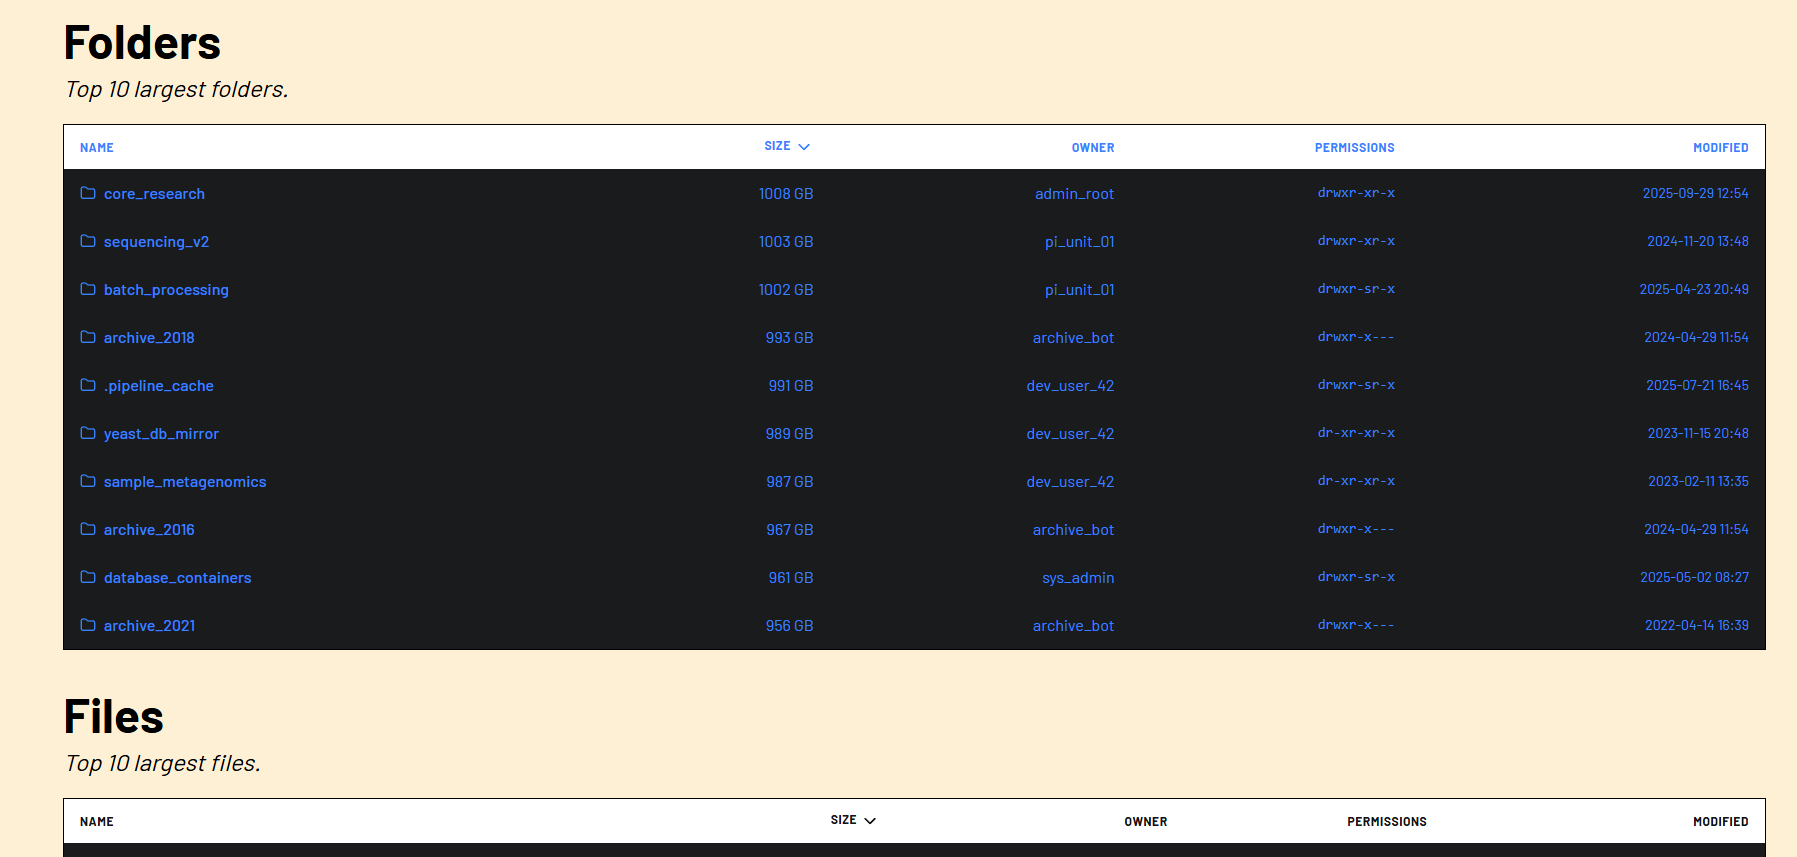
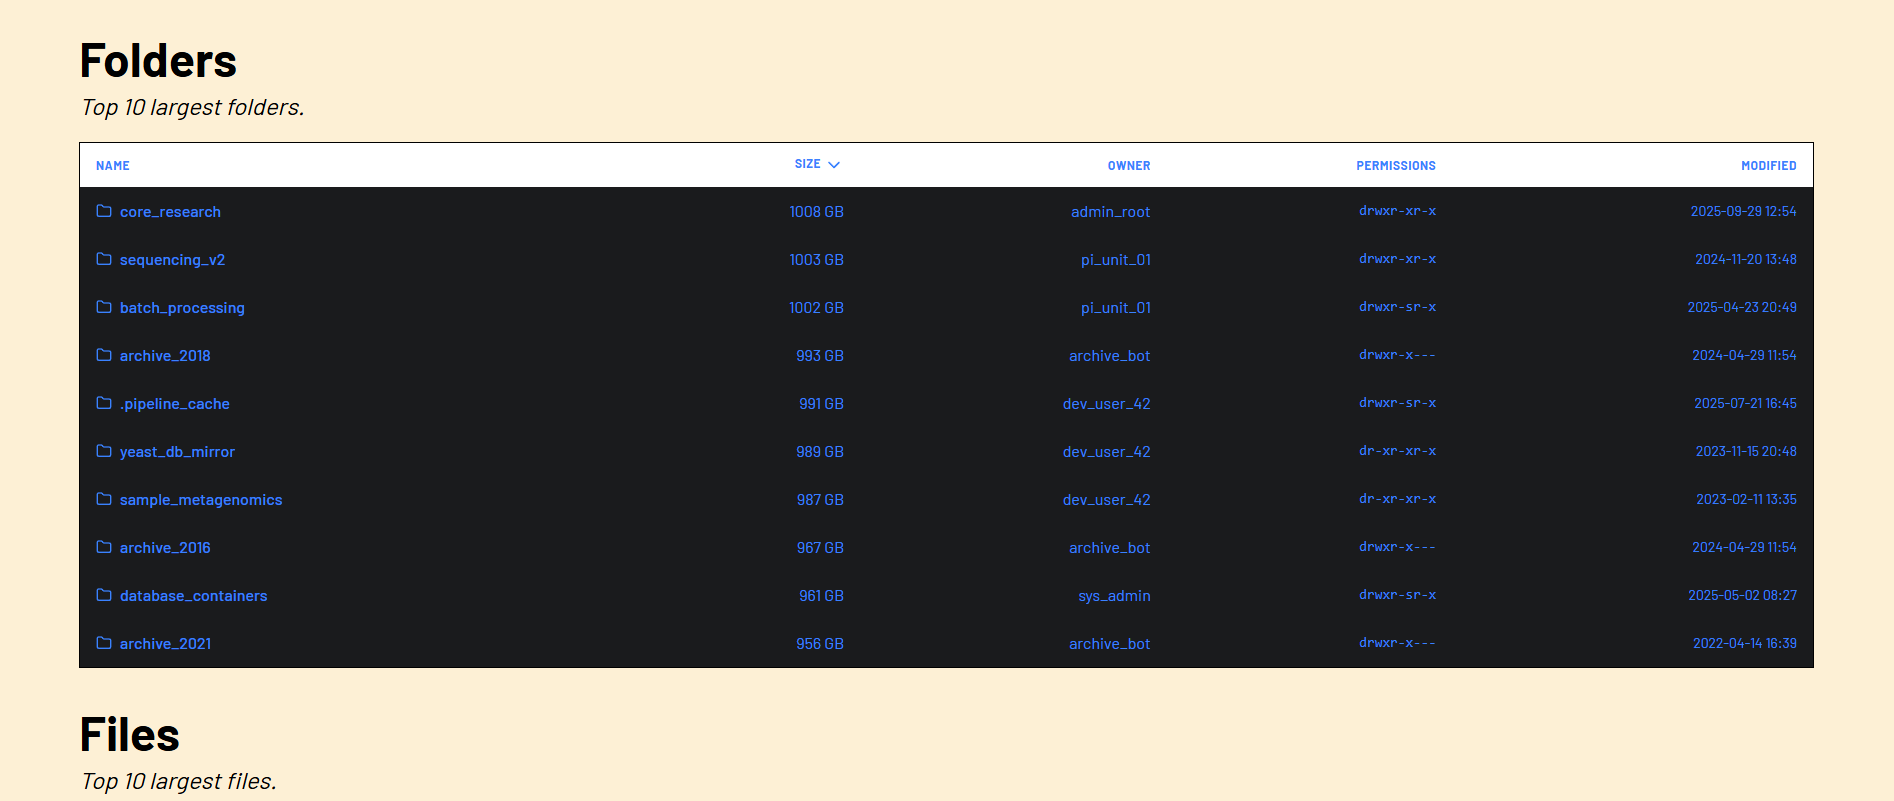
page-diskamp finish

diff --git a/index.html b/index.html
@@ -7,14 +7,14 @@
     <script src="https://cdn.jsdelivr.net/npm/@tailwindcss/browser@4"></script>
     <link rel="preconnect" href="https://fonts.googleapis.com">
     <link rel="preconnect" href="https://fonts.gstatic.com" crossorigin>
-    <link href="https://fonts.googleapis.com/css2?family=IBM+Plex+Sans:ital,wght@0,100..700;1,100..700&display=swap"
-        rel="stylesheet">
+    <link href="https://fonts.googleapis.com/css2?family=IBM+Plex+Sans:ital,wght@0,100..700;1,100..700&display=swap"rel="stylesheet">
     <title>Emer</title>
 </head>
 
 <body class="bg-zinc-100 font-['IBM_Plex_Sans']">
     <header class="w-full">
-        <nav class="mx-auto flex flex-wrap justify-center gap-6 px-4 py-4 text-sm sm:gap-10 sm:text-base lg:justify-end lg:gap-20 lg:px-30 lg:py-5 lg:text-xl">
+        <nav
+            class="mx-auto flex flex-wrap justify-center gap-6 px-4 py-4 text-sm sm:gap-10 sm:text-base lg:justify-end lg:gap-20 lg:px-30 lg:py-5 lg:text-xl">
             <ul class="flex flex-wrap justify-center gap-6 sm:gap-10 lg:gap-20 tracking-wide">
                 <li>
                     <a href="#experience" class="transition-colors hover:text-zinc-500 uppercase">
@@ -43,9 +43,11 @@
                 <h1 class="text-2xl sm:text-4xl lg:text-7xl text-[#d54d4f]">WEB DEV. / IT TECH.</h1>
                 <h1 class="text-2xl sm:text-4xl lg:text-7xl text-[#d54d4f]">BCN-ESP № 22-MMIII</h1>
             </div>
-            <div class="col-span-1 relative z-0 mt-8 bg-black px-5 pt-8 pb-8 text-white sm:px-8 lg:col-start-1 lg:col-end-7 lg:-mt-40 lg:px-10 lg:pt-52 lg:pb-20">
+            <div
+                class="col-span-1 relative z-0 mt-8 bg-black px-5 pt-8 pb-8 text-white sm:px-8 lg:col-start-1 lg:col-end-7 lg:-mt-40 lg:px-10 lg:pt-52 lg:pb-20">
                 <div class="mx-auto max-w-5xl">
-                    <p class="max-w-5xl text-base leading-relaxed tracking-normal uppercase sm:text-lg lg:text-2xl lg:tracking-wide">
+                    <p
+                        class="max-w-5xl text-base leading-relaxed tracking-normal uppercase sm:text-lg lg:text-2xl lg:tracking-wide">
                         I'm a curious person who enjoys learning, improving, and taking on new challenges.
                         I have experience working as a <span class="text-[#d54d4f]">Full Stack Developer</span> and
                         <span class="text-[#d54d4f]">IT Technician</span>.
@@ -67,8 +69,7 @@
             <div class="grid grid-cols-1 gap-12 lg:grid-cols-4 lg:gap-20">
                 <!-- bsc -->
                 <div class="lg:col-start-1 lg:col-end-2">
-                    <img src="./job-cards/bsc.png" alt="Barcelona Supercomputing Center"
-                        class="w-full h-56 object-cover object-bottom sm:h-64 lg:h-130">
+                    <img src="./job-cards/bsc.png" alt="Barcelona Supercomputing Center"class="w-full h-56 object-cover object-bottom sm:h-64 lg:h-130">
                     <div class="mt-4 lg:mt-0 lg:rotate-270 lg:-translate-y-70 lg:-translate-x-35">
                         <h1 class="">BARCELONA SUPERCOMPUTING</h1>
                         <h1 class=" italic">CENTER</h1>
@@ -96,7 +97,8 @@
                         in MareNostrum, displaying storage analysis, directory structures,
                         and usage dashboards on the frontend.
                     </p>
-                    <p class="text-sm text-[#d54d4f] mt-6 tracking-wide bg-black px-3 py-1.5 w-fit rounded-lg sm:text-base lg:text-lg lg:mt-8 lg:px-4 lg:py-2">
+                    <p
+                        class="text-sm text-[#d54d4f] mt-6 tracking-wide bg-black px-3 py-1.5 w-fit rounded-lg sm:text-base lg:text-lg lg:mt-8 lg:px-4 lg:py-2">
                         SVELTE · REACT · JS · TYPESCRIPT · FASTAPI · NEXT.JS · DOCKER · PYTHON · D3.JS
                     </p>
                 </div>
@@ -111,27 +113,23 @@
                     <h2 class="text-lg text-[#d54d4f] mt-1 uppercase sm:text-xl lg:text-2xl">
                         Administrative Campus of the GENERALITAT DE CATALUNYA
                     </h2>
-
                     <p class="text-base leading-relaxed mt-4 sm:text-lg lg:text-xl lg:mt-6">
                         Providing on-site IT support within the administrative district,
                         resolving hardware, software, network, and user-related incidents
                         through a ticket-based support system.
                     </p>
-
                     <p class="text-base leading-relaxed mt-4 sm:text-lg lg:text-xl lg:mt-5">
                         Managing user account lifecycle processes, including new user
                         registrations and account deactivations, as well as assisting
                         employees with day-to-day technical issues.
                     </p>
-
-                    <p class="text-sm text-[#d54d4f] mt-6 tracking-wide bg-black px-3 py-1.5 w-fit rounded-lg sm:text-base lg:text-lg lg:mt-8 lg:px-4 lg:py-2">
+                    <p
+                        class="text-sm text-[#d54d4f] mt-6 tracking-wide bg-black px-3 py-1.5 w-fit rounded-lg sm:text-base lg:text-lg lg:mt-8 lg:px-4 lg:py-2">
                         IT SUPPORT · TICKETING · WINDOWS · HARDWARE · NETWORKING · USER MANAGEMENT
                     </p>
-
                 </div>
                 <div class="lg:col-start-3 lg:col-end-4">
-                    <img src="./job-cards/bsc.png" alt="Generalitat de Catalunya"
-                        class="w-full h-56 object-cover object-bottom sm:h-64 lg:h-130">
+                    <img src="./job-cards/bsc.png" alt="Generalitat de Catalunya"class="w-full h-56 object-cover object-bottom sm:h-64 lg:h-130">
                     <div class="mt-4 lg:mt-0 lg:rotate-270 lg:-translate-y-70 lg:translate-x-30">
                         <h1 class="uppercase">Administrative Campus of the</h1>
                         <h1 class=" italic uppercase">Generalitat de Catalunya</h1>
@@ -146,27 +144,30 @@
                 <h1 id="projects" class="text-3xl italic lg:text-6xl">PROJECTS</h1>
             </div>
             <div class="grid grid-cols-1 gap-6 px-5 pb-10 sm:px-8 lg:grid-cols-2 lg:gap-8 lg:px-50 lg:pb-0">
-                <div class="group relative overflow-hidden">
+                <a href="./pages/diskmap.html" class="group relative block overflow-hidden">
                     <img src="./img/diskmap/disk-1.png" alt="DiskMap" class="w-full h-56 object-cover sm:h-64">
-                    <div class="absolute inset-0 bg-gradient-to-t from-black via-black/40 to-transparent flex items-end p-5">
+                    <div class="absolute inset-0 flex items-end bg-gradient-to-t from-black via-black/40 to-transparent p-5">
                         <div class="transition-transform duration-1000 ease-out lg:group-hover:-translate-y-2">
-                            <h2 class="text-white text-2xl font-normal uppercase tracking-wide sm:text-3xl lg:text-4xl">DiskMap</h2>
-                            <h3 class="text-base font-normal uppercase text-white opacity-100 max-h-12 translate-y-0 transition-all duration-1000 ease-out sm:text-lg lg:text-2xl lg:opacity-0 lg:max-h-0 lg:-translate-y-2 lg:group-hover:opacity-100 lg:group-hover:max-h-12 lg:group-hover:translate-y-0"> BSC Project with gabaldonlab</h3>
+                            <h2 class="text-2xl font-normal uppercase tracking-wide text-white sm:text-3xl lg:text-4xl">DiskMap</h2>
+                            <h3 class="text-base font-normal uppercase text-white opacity-100 max-h-12 translate-y-0 transition-all duration-1000 ease-out sm:text-lg lg:text-2xl lg:opacity-0 lg:max-h-0 lg:-translate-y-2 lg:group-hover:opacity-100 lg:group-hover:max-h-12 lg:group-hover:translate-y-0">BSC Project with gabaldonlab</h3>
                         </div>
                     </div>
-                </div>
+                </a>
                 <div class="group relative overflow-hidden">
-                    <img src="./img/phylomedb/phy-1.png" alt="PhylomeDB" class="w-full h-56 object-cover object-top sm:h-64">
-                    <div class="absolute inset-0 bg-gradient-to-t from-black via-black/40 to-transparent flex items-end p-5">
+                    <img src="./img/phylomedb/phy-1.png" alt="PhylomeDB"
+                        class="w-full h-56 object-cover object-top sm:h-64">
+                    <div
+                        class="absolute inset-0 bg-gradient-to-t from-black via-black/40 to-transparent flex items-end p-5">
                         <div class="transition-transform duration-1000 ease-out lg:group-hover:-translate-y-2">
                             <h2 class="text-white text-2xl font-normal uppercase tracking-wide sm:text-3xl lg:text-4xl">PhylomeDB</h2>
-                            <h3 class="text-base font-normal uppercase text-white opacity-100 max-h-12 translate-y-0 transition-all duration-1000 ease-out sm:text-lg lg:text-2xl lg:opacity-0 lg:max-h-0 lg:-translate-y-2 lg:group-hover:opacity-100 lg:group-hover:max-h-12 lg:group-hover:translate-y-0"> BSC Project with gabaldonlab</h3>
+                            <h3 class="text-base font-normal uppercase text-white opacity-100 max-h-12 translate-y-0 transition-all duration-1000 ease-out sm:text-lg lg:text-2xl lg:opacity-0 lg:max-h-0 lg:-translate-y-2 lg:group-hover:opacity-100 lg:group-hover:max-h-12 lg:group-hover:translate-y-0">BSC Project with gabaldonlab</h3>
                         </div>
                     </div>
                 </div>
                 <div class="group relative overflow-hidden">
                     <img src="./img/patho/patho-1.png" alt="Project" class="w-full h-56 object-cover sm:h-64">
-                    <div class="absolute inset-0 bg-gradient-to-t from-black via-black/40 to-transparent flex items-end p-5">
+                    <div
+                        class="absolute inset-0 bg-gradient-to-t from-black via-black/40 to-transparent flex items-end p-5">
                         <div class="transition-transform duration-1000 ease-out lg:group-hover:-translate-y-2">
                             <h2 class="text-white text-2xl font-normal uppercase tracking-wide sm:text-3xl lg:text-4xl">Pathowatch</h2>
                             <h3 class="text-base font-normal uppercase text-white opacity-100 max-h-12 translate-y-0 transition-all duration-1000 ease-out sm:text-lg lg:text-2xl lg:opacity-0 lg:max-h-0 lg:-translate-y-2 lg:group-hover:opacity-100 lg:group-hover:max-h-12 lg:group-hover:translate-y-0">Final year project</h3>
@@ -175,7 +176,8 @@
                 </div>
                 <div class="group relative overflow-hidden">
                     <img src="./img/music/music-1.png" alt="Project" class="w-full h-56 object-cover sm:h-64">
-                    <div class="absolute inset-0 bg-gradient-to-t from-black via-black/40 to-transparent flex items-end p-5">
+                    <div
+                        class="absolute inset-0 bg-gradient-to-t from-black via-black/40 to-transparent flex items-end p-5">
                         <div class="transition-transform duration-1000 ease-out lg:group-hover:-translate-y-2">
                             <h2 class="text-white text-2xl font-normal uppercase tracking-wide sm:text-3xl lg:text-4xl">Music</h2>
                             <h3 class="text-base font-normal uppercase text-white opacity-100 max-h-12 translate-y-0 transition-all duration-1000 ease-out sm:text-lg lg:text-2xl lg:opacity-0 lg:max-h-0 lg:-translate-y-2 lg:group-hover:opacity-100 lg:group-hover:max-h-12 lg:group-hover:translate-y-0">personal project</h3>
@@ -186,5 +188,4 @@
         </div>
     </main>
 </body>
-
 </html>

diff --git a/pages/diskmap.html b/pages/diskmap.html
@@ -1,0 +1,149 @@
+<!DOCTYPE html>
+<html lang="en">
+<head>
+    <meta charset="UTF-8">
+    <meta name="viewport" content="width=device-width, initial-scale=1.0">
+    <script src="https://cdn.jsdelivr.net/npm/@tailwindcss/browser@4"></script>
+    <link rel="preconnect" href="https://fonts.googleapis.com">
+    <link rel="preconnect" href="https://fonts.gstatic.com" crossorigin>
+    <link href="https://fonts.googleapis.com/css2?family=IBM+Plex+Sans:ital,wght@0,100..700;1,100..700&display=swap" rel="stylesheet">
+    <script src="https://cdn.jsdelivr.net/npm/gsap@3.13.0/dist/gsap.min.js"></script>
+    <script src="https://cdn.jsdelivr.net/npm/gsap@3.13.0/dist/ScrollTrigger.min.js"></script>
+</head>
+
+<body class="bg-zinc-100 font-['IBM_Plex_Sans']">
+    <main>
+        <div class="relative h-screen w-full overflow-hidden">
+            <img src="../img/diskmap/disk-4.png" alt="Disk Map" class="w-full h-full object-cover">
+            <div class="absolute inset-0 bg-gradient-to-b from-black/100 via-black/100 to-transparent"></div>
+            <div class="absolute inset-0 px-16 pt-50 text-white">
+                <h2 class="text-7xl font-normal italic tracking-wide">DISKMAP</h2>
+                <p class="mt-8 max-w-5xl text-xl leading-[2] tracking-[0.12em] uppercase">
+                    "Internal web tool developed at the Barcelona Supercomputing Center for the Gabaldon Lab to monitor
+                    and analyze storage quotas on the MareNostrum supercomputer.
+
+                    DiskMap provides a real-time visual overview of how the lab's storage resources are being used. It
+                    allows users to track quota consumption, analyze the number of files and their modification dates,
+                    identify users consuming the most space, and compare storage usage across different projects and
+                    directories.
+
+                    The goal is to turn complex filesystem data into a clear and accessible interface, making it easier
+                    to understand storage usage and identify where the lab's resources are being consumed.""
+                </p>
+            </div>
+            <div class="absolute bottom-100 left-350 right-0 px-16 pb-8 text-white rotate-270">
+                <h1 class="">BARCELONA SUPERCOMPUTING</h1>
+                <h1 class=" italic">CENTER</h1>
+                <h1 class=" text-[#d54d4f]">BCN-ESP 41.3974° N, 2.1312° E</h1>
+            </div>
+        </div>
+        <div class="p-20 mt-30 flex items-center justify-center gap-20">
+            <img src="../img/logos/Svelte_Logo.svg" alt="Svelte" class="w-40 h-40 object-contain">
+            <img src="../img/logos/Typescript_logo_2020.svg" alt="TypeScript" class="w-40 h-40 object-contain">
+            <img src="../img/logos/FastAPI_logo.svg" alt="FastAPI" class="w-40 h-40 object-contain">
+            <img src="../img/logos/Python-logo-notext.svg" alt="Python" class="w-40 h-40 object-contain">
+            <img src="../img/logos/Apache_ECharts_Logo.png" alt="Apache ECharts" class="w-40 h-40 object-contain">
+            <img src="../img/logos/docker-logo-black.png" alt="Docker" class="w-40 h-40 object-contain">
+            <img src="../img/logos/SQLite370.svg" alt="SQLite" class="w-40 h-40 object-contain">
+        </div>
+        <div class="px-20 py-10 flex flex-col items-center justify-center gap-10">
+            <p
+                class="max-w-7xl text-center leading-loose tracking-normal uppercase sm:text-lg lg:text-3xl lg:tracking-wide">
+                We developed DiskMap with the guidance of my mentor and colleague <span class="text-[#d54d4f] underline italic">
+                <a href="https://www.linkedin.com/in/arnau-albert-sánchez-81211826b" target="_blank"
+                        rel="noopener noreferrer">Arnau</a></span>, who helped us understand the
+                MareNostrum environment and determine how to retrieve the required data.
+
+                We worked on both the frontend and backend, creating a clean and easy-to-understand interface for
+                Gabaldon Lab researchers.The backend connects to MareNostrum via SSH to retrieve the required
+                information, while the
+                frontend communicates with the backend through APIs. The backend processes the filesystem data and uses
+                a small database to keep
+                track of thousands of directory paths, automatically updating.
+
+                We also used Apache ECharts with Svelte to turn this data into clear and interactive visualizations,
+                making it easier to understand and diagnose storage quota usage.
+            </p>
+        </div>
+        <section id="showcase" class="relative h-screen overflow-hidden pt-20">
+            <div class="absolute inset-0">
+                <img src="../img/diskmap/disk-1.png" class="disk-image absolute bottom-0 w-full h-auto object-contain">
+                <img src="../img/diskmap/disk-2.png" class="disk-image absolute bottom-0 w-full h-auto object-contain">
+                <img src="../img/diskmap/disk-3.png" class="disk-image absolute bottom-0 w-full h-auto object-contain">
+                <img src="../img/diskmap/disk-4.png" class="disk-image absolute bottom-0 w-full h-auto object-contain">
+                <img src="../img/diskmap/disk-5.png" class="disk-image absolute bottom-0 w-full h-auto object-contain">
+                <img src="../img/diskmap/disk-6.png" class="disk-image absolute bottom-0 w-full h-auto object-contain">
+            </div>
+
+        </section>
+        <script>
+            gsap.registerPlugin(ScrollTrigger);
+            const images = gsap.utils.toArray(".disk-image");
+            gsap.set(images[0], {
+                xPercent: 0,
+                opacity: 1,
+                zIndex: 1
+            });
+            images.slice(1).forEach((image, index) => {
+                gsap.set(image, {
+                    xPercent: index % 2 === 0 ? 100 : -100,
+                    opacity: 1,
+                    zIndex: index + 2
+                });
+            });
+            const timeline = gsap.timeline({
+                scrollTrigger: {
+                    trigger: "#showcase",
+                    start: "top top",
+                    end: `+=${(images.length - 1) * 100}%`,
+                    scrub: 1.2,
+                    pin: true,
+                    anticipatePin: 1
+                }
+            });
+            images.slice(1).forEach((image, index) => {
+
+                const previousImage = images[index];
+
+                timeline
+                    .to(image, {
+                        xPercent: 0,
+                        ease: "power2.out",
+                        duration: 1
+                    })
+                    .to(previousImage, {
+                        opacity: 0,
+                        ease: "power2.out",
+                        duration: 0.5
+                    }, "<0.4");
+            });
+        </script>
+        <footer class="relative bg-black text-white">
+            <div class="px-10 py-16 md:px-20">
+                <div class="flex flex-col md:flex-row items-start md:items-end justify-between gap-10">
+                    <div>
+                        <a href="../index.html" class="text-[#d54d4f] text-4xl md:text-5xl font-normal italic tracking-wide">
+                            EMERSON ROJAS
+                        </a>
+                        <p class="mt-4 text-sm text-zinc-500 uppercase tracking-[0.2em]">
+                            Web Developer · IT Support
+                        </p>
+                    </div>
+                    <div class="flex gap-8 text-sm uppercase tracking-wider">
+                        <a href="https://github.com/THEMER12" class="text-zinc-400 hover:text-white transition-colors">
+                            GitHub
+                        </a>
+                        <a href="https://www.linkedin.com/in/emersonrojas21/" class="text-zinc-400 hover:text-white transition-colors">
+                            LinkedIn
+                        </a>
+                    </div>
+                </div>
+                <div class="mt-16 pt-6 border-t border-zinc-800 flex flex-col md:flex-row justify-between gap-3 text-xs uppercase tracking-wider text-zinc-600">
+                    <p>© 2026 Emerson Rojas</p>
+                <h1 class="text-xs sm:text-4xl lg:text-xs text-[#d54d4f]">BCN-ESP № 22-MMIII</h1>
+                </div>
+            </div>
+        </footer>
+    </main>
+</body>
+</html>
